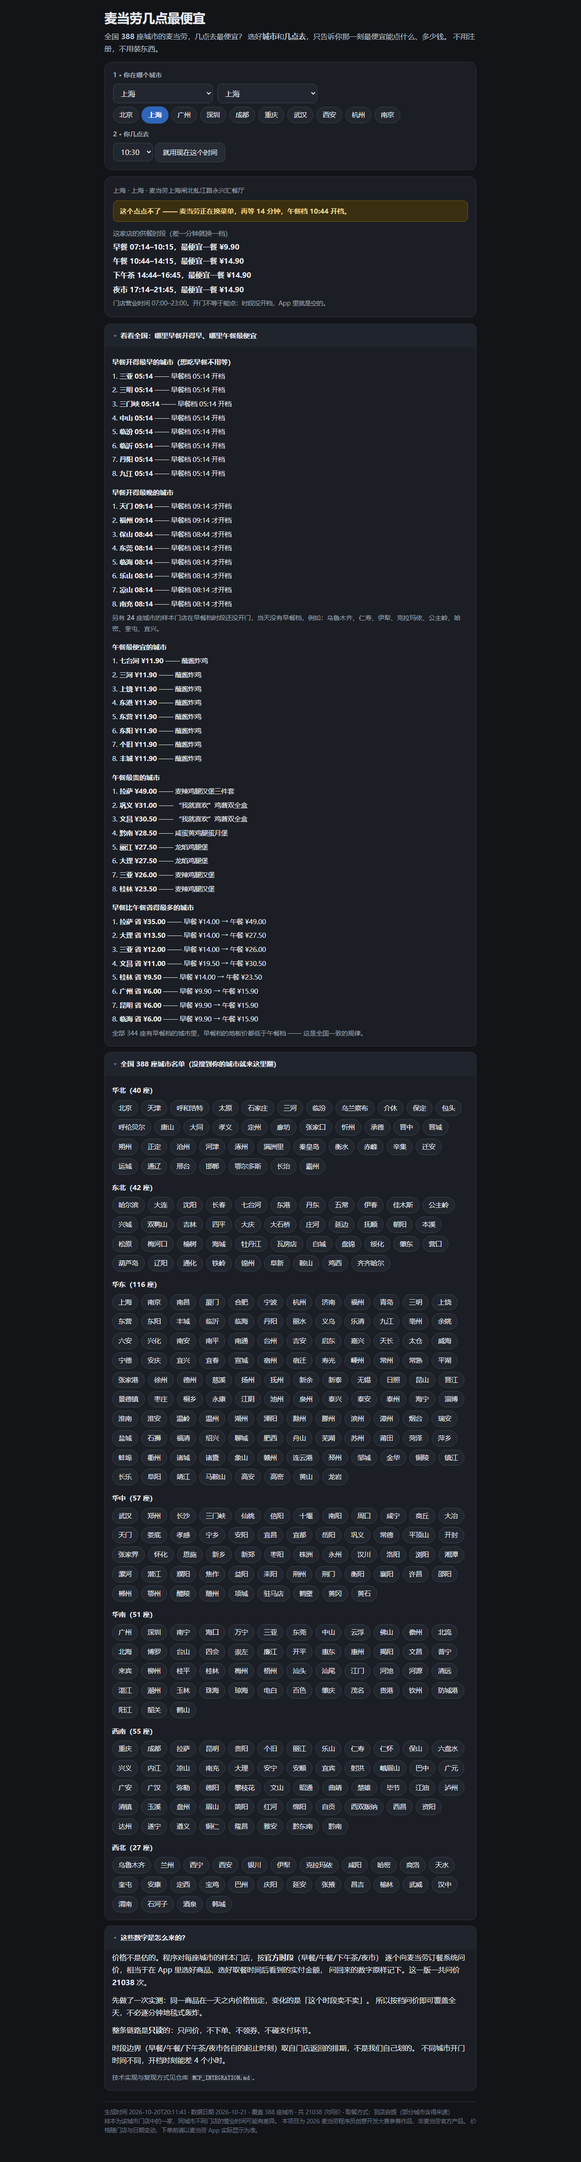
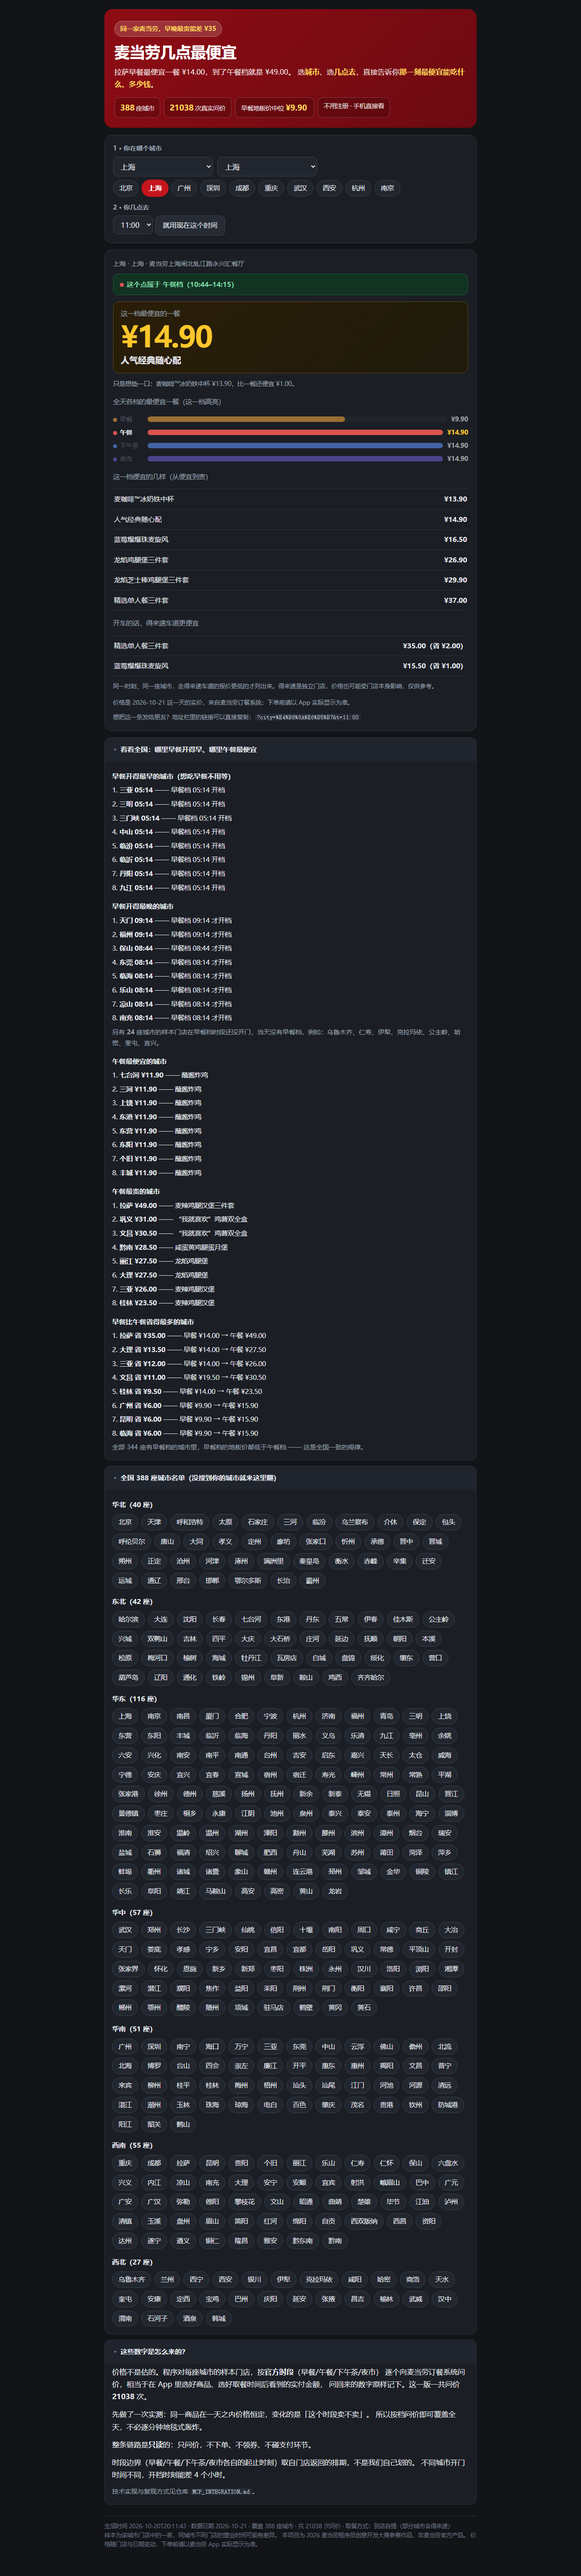
design: 品牌红金视觉 + 黄金3秒钩子文案
- 头部新增红色渐变 hero: 钩子「同一家麦当劳, 早晚最贵能差 ¥35」+ 真实案例(拉萨 ¥14→¥49) + 四枚数据勋章
- 主题色统一为品牌红 #C4161C, 价格 hero 改金色渐变 + 红色大字
- 四档配色: 早餐金/午餐红/下午茶蓝/夜市紫, 用于圆点标识与对比横条, 非当前档降透明度
- 横条标签宽度修正(避免「下午茶」换行); 移动端价格 64px
- README 开头同步换成同一钩子文案; 实拍图更新

diff --git a/dist/report.html b/dist/report.html
@@ -11,9 +11,25 @@ body{margin:0;background:#f6f7f9;color:#1f2329;
  font-size:16px;line-height:1.7;padding:20px 14px 40px;
  word-break:break-word;overflow-wrap:break-word}
 .wrap{max-width:820px;margin:0 auto}
+
+/* —— 头部: 黄金3秒钩子 —— */
+.hero{background:linear-gradient(135deg,#E1121F 0%,#C0101A 55%,#A50F18 100%);
+ color:#fff;border-radius:18px;padding:26px 22px 22px;margin:0 0 16px;
+ box-shadow:0 2px 4px rgba(120,10,16,.18),0 14px 34px rgba(120,10,16,.22)}
+.hero .hook{display:inline-block;background:rgba(255,255,255,.16);border:1px solid rgba(255,255,255,.28);
+ color:#FFD75E;font-size:13.5px;font-weight:800;letter-spacing:.4px;padding:5px 12px;
+ border-radius:20px;margin:0 0 12px}
+.hero h1{font-size:34px;line-height:1.25;margin:0 0 10px;color:#fff;letter-spacing:-.4px}
+.hero .hsub{font-size:16px;color:rgba(255,255,255,.92);margin:0 0 16px;line-height:1.65}
+.hero .hsub b{color:#FFD75E}
+.hero-stats{display:flex;flex-wrap:wrap;gap:8px}
+.hero-stats .hs{background:rgba(0,0,0,.16);border:1px solid rgba(255,255,255,.2);
+ border-radius:10px;padding:7px 12px;font-size:13.5px;color:rgba(255,255,255,.9)}
+.hero-stats .hs b{font-size:17px;color:#FFD75E;font-variant-numeric:tabular-nums;
+ font-weight:800;margin-right:3px}
 h1{font-size:28px;line-height:1.35;margin:0 0 8px;letter-spacing:-.2px}
 p{margin:0 0 12px}
-a{color:#1D4F91}
+a{color:#A50F18}
 .lead{font-size:16px;color:#3d4450;margin:0 0 16px}
 .num{font-variant-numeric:tabular-nums;font-feature-settings:"tnum" 1}
 .sub{color:#6b7280;font-size:14px;margin:0}
@@ -33,16 +49,16 @@ select.sel{font:inherit;font-size:16px;padding:9px 12px;border:1px solid #d7dbe3
 .chip{display:inline-block;padding:6px 13px;border:1px solid #d7dbe3;border-radius:20px;
  background:#fff;color:#1f2329;font-size:14.5px;cursor:pointer;line-height:1.5;
  transition:border-color .15s,color .15s,background .15s,transform .15s}
-.chip:hover{border-color:#1D4F91;color:#1D4F91}
-.chip.on{background:#1D4F91;border-color:#1D4F91;color:#fff;font-weight:700;transform:scale(1.05)}
+.chip:hover{border-color:#C4161C;color:#C4161C}
+.chip.on{background:#C4161C;border-color:#C4161C;color:#fff;font-weight:700;transform:scale(1.05)}
 .hintline{font-size:13.5px;color:#6b7280;margin:8px 0 0}
 select{font:inherit;font-size:16px;padding:8px 12px;border:1px solid #d7dbe3;border-radius:10px;
  background:#fff;color:#1f2329;max-width:100%;transition:border-color .15s}
-select:focus{border-color:#1D4F91;outline:2px solid rgba(29,79,145,.18)}
+select:focus{border-color:#C4161C;outline:2px solid rgba(196,22,28,.16)}
 button.now{font:inherit;font-size:15px;padding:8px 16px;border:1px solid #d7dbe3;
  border-radius:10px;background:#f0f2f5;color:#1f2329;cursor:pointer;
  transition:border-color .15s,color .15s,background .15s}
-button.now:hover{border-color:#1D4F91;color:#1D4F91;background:#eef3fa}
+button.now:hover{border-color:#C4161C;color:#C4161C;background:#fdeeee}
 
 /* —— 答案区 —— */
 .state{font-size:15px;font-weight:700;padding:10px 14px;border-radius:10px;margin:0 0 14px}
@@ -50,11 +66,14 @@ button.now:hover{border-color:#1D4F91;color:#1D4F91;background:#eef3fa}
 .state.gap{background:#fff4ce;color:#8a6100;border:1px solid #f0d999}
 .state.closed{background:#f1f2f5;color:#5b6472;border:1px solid #dfe2e8}
 .big{font-size:14.5px;color:#6b7280;margin:0 0 2px}
-.anshero{background:linear-gradient(135deg,#edf7f0,#f8fcf7);border:1px solid #c9e8d4;
- border-radius:14px;padding:14px 16px 12px;margin:2px 0 12px}
+.anshero{background:linear-gradient(135deg,#FFF6DF 0%,#FFFDF6 60%);border:1px solid #F2D77A;
+ border-radius:14px;padding:14px 16px 12px;margin:2px 0 12px;
+ box-shadow:0 1px 2px rgba(180,130,20,.08),0 6px 18px rgba(180,130,20,.10)}
 .anshero .ansname{margin-bottom:0}
-.ansprice{font-size:60px;font-weight:800;letter-spacing:-2px;line-height:1.1;margin:2px 0 4px;
- color:#14622c;font-variant-numeric:tabular-nums}
+.ansprice{font-size:64px;font-weight:800;letter-spacing:-2.5px;line-height:1.05;margin:2px 0 4px;
+ color:#C4161C;font-variant-numeric:tabular-nums}
+.pdot{display:inline-block;width:9px;height:9px;border-radius:50%;margin-right:6px;
+ vertical-align:middle}
 .ansname{font-size:19px;font-weight:700;margin:0 0 4px}
 .anshint{font-size:13.5px;color:#6b7280;margin:6px 0 0}
 .ansline{font-size:15px;margin:10px 0 0;padding:10px 12px;background:#f6f9ff;
@@ -63,13 +82,14 @@ button.now:hover{border-color:#1D4F91;color:#1D4F91;background:#eef3fa}
 /* —— 各档价格对比横条 —— */
 .cmp{margin:14px 0 0}
 .cmp .row{display:flex;align-items:center;gap:10px;margin:6px 0;font-size:13.5px}
-.cmp .nm{width:46px;flex:none;color:#6b7280}
-.cmp .track{display:block;flex:1;min-width:0;background:#eef0f4;border-radius:6px;height:12px;overflow:hidden}
-.cmp .bar{display:block;height:12px;border-radius:6px;background:#c9d2df;min-width:4px}
+.cmp .nm{width:66px;flex:none;color:#6b7280;white-space:nowrap}
+.cmp .track{display:block;flex:1;min-width:0;background:#f0f2f5;border-radius:6px;height:12px;overflow:hidden}
+.cmp .bar{display:block;height:12px;border-radius:6px;background:#c9d2df;min-width:4px;
+ transition:width .25s ease-out}
 .cmp .pv{font-variant-numeric:tabular-nums;font-weight:700;white-space:nowrap}
-.cmp .row.cur .nm{color:#14622c;font-weight:700}
-.cmp .row.cur .bar{background:linear-gradient(90deg,#3f9d63,#57b87e)}
-.cmp .row.cur .pv{color:#14622c}
+.cmp .row.cur .nm{color:#1f2329;font-weight:800}
+.cmp .row.cur .pv{color:#C4161C}
+.cmp .row:not(.cur){opacity:.62}
 
 /* —— 答案卡切换动画 —— */
 @keyframes fadeUp{from{opacity:0;transform:translateY(8px)}to{opacity:1;transform:none}}
@@ -106,22 +126,25 @@ footer{max-width:820px;margin:24px auto 0;color:#8b93a3;font-size:12.5px;
 @media (prefers-color-scheme:dark){
   body{background:#121418;color:#e7eaf0}
   .lead{color:#b9c0cc}
-  a{color:#8db4ea}
+  a{color:#E37B7B}
   .sub,.big,.anshint,.more,.hintline,.qlab{color:#9aa3b2}
   .card,.q,details{background:#1b1e24;border-color:#2c313a;box-shadow:none}
   details summary{background:#20242c}
   select.sel,select{background:#22262e;border-color:#3a414c;color:#e7eaf0}
-  select:focus{border-color:#8db4ea;outline-color:rgba(141,180,234,.2)}
+  select:focus{border-color:#E37B7B;outline-color:rgba(227,123,123,.22)}
   button.now{background:#262b34;border-color:#3a414c;color:#e7eaf0}
-  button.now:hover{border-color:#8db4ea;color:#8db4ea;background:#262f3d}
+  button.now:hover{border-color:#E37B7B;color:#E37B7B;background:#262f3d}
   .chip{background:#22262e;border-color:#3a414c;color:#e7eaf0}
-  .chip:hover{border-color:#8db4ea;color:#8db4ea}
-  .chip.on{background:#2f66b8;border-color:#2f66b8;color:#fff}
+  .chip:hover{border-color:#E37B7B;color:#E37B7B}
+  .chip.on{background:#C4161C;border-color:#C4161C;color:#fff}
   .state.ok{background:#123322;color:#7fd6a4;border-color:#1f5a3a}
   .state.gap{background:#3a2f10;color:#f0d48a;border-color:#6b5518}
   .state.closed{background:#22262e;color:#9aa3b2;border-color:#3a414c}
-  .anshero{background:linear-gradient(135deg,#14291c,#17211a);border-color:#235c3c}
-  .ansprice{color:#7fd6a4}
+  .anshero{background:linear-gradient(135deg,#2A1E08,#1F1A0C);border-color:#5e4a15;box-shadow:none}
+  .ansprice{color:#FFC72C}
+  .cmp .row.cur .pv{color:#FFC72C}
+  .cmp .row.cur .nm{color:#e7eaf0}
+  .hero{background:linear-gradient(135deg,#8E0C14,#6C0A11);box-shadow:none}
   .ansline{background:#1a2333;border-color:#2c3d5c}
   ul.can{border-top-color:#2c313a}
   ul.can li{border-bottom-color:#2c313a}
@@ -131,8 +154,6 @@ footer{max-width:820px;margin:24px auto 0;color:#8b93a3;font-size:12.5px;
   footer{color:#6d7684;border-top-color:#2c313a}
   .cmp .track{background:#262b34}
   .cmp .bar{background:#4a5361}
-  .cmp .nm{color:#9aa3b2}
-  .cmp .row.cur .nm,.cmp .row.cur .pv{color:#7fd6a4}
 }
 @media print{
   body{background:#fff;padding:0;font-size:12pt}
@@ -146,10 +167,18 @@ footer{max-width:820px;margin:24px auto 0;color:#8b93a3;font-size:12.5px;
 }
 </style></head><body>
 <div class="wrap">
-<h1>麦当劳几点最便宜</h1>
-<p class="lead">全国 <b>388</b> 座城市的麦当劳，几点去最便宜？
-选好<b>城市</b>和<b>几点去</b>，只告诉你那一刻最便宜能点什么、多少钱。
-不用注册，不用装东西。</p>
+<header class="hero">
+  <p class="hook">同一家麦当劳，早晚最贵能差 ¥35</p>
+  <h1>麦当劳几点最便宜</h1>
+  <p class="hsub">拉萨早餐最便宜一餐 ¥14.00，到了午餐档就是 ¥49.00。
+  选<b>城市</b>、选<b>几点去</b>，直接告诉你<b>那一刻最便宜能吃什么、多少钱</b>。</p>
+  <div class="hero-stats">
+    <span class="hs"><b>388</b>座城市</span>
+    <span class="hs"><b>21038</b>次真实问价</span>
+    <span class="hs">早餐地板价中位 <b>¥9.90</b></span>
+    <span class="hs">不用注册 · 手机直接看</span>
+  </div>
+</header>
 
 <div class="q">
   <div class="qrow">
@@ -359,7 +388,7 @@ footer{max-width:820px;margin:24px auto 0;color:#8b93a3;font-size:12.5px;
       out.push('<p class="big">这家店的供餐时段（差一分钟就换一档）</p>');
       for (var i = 0; i < city.periods.length; i++) {
         var q = city.periods[i];
-        out.push('<p class="ansname" style="font-size:16px">' + esc(q.name) + " "
+        out.push('<p class="ansname" style="font-size:16px">' + pdot(q.name) + esc(q.name) + " "
           + q.start + "–" + q.end + (q.meal ? "，最便宜一餐 " + yuan(q.meal.p) : "") + "</p>");
       }
       out.push('<p class="anshint">门店营业时间 ' + esc(city.biz[0]) + "–" + esc(city.biz[1])
@@ -370,8 +399,8 @@ footer{max-width:820px;margin:24px auto 0;color:#8b93a3;font-size:12.5px;
       return;
     }
 
-    out.push('<p class="state ok">这个点属于 <b>' + esc(p.name) + "档</b>（"
-      + p.start + "–" + p.end + "）</p>");
+    out.push('<p class="state ok">' + pdot(p.name) + "这个点属于 <b>" + esc(p.name)
+      + "档</b>（" + p.start + "–" + p.end + "）</p>");
 
     var meal = p.meal || p.any;
     if (meal) {
@@ -411,8 +440,9 @@ footer{max-width:820px;margin:24px auto 0;color:#8b93a3;font-size:12.5px;
       for (var b2 = 0; b2 < rows.length; b2++) {
         var rp = rows[b2], w = Math.max(4, Math.round(rp.meal.p / maxp * 100));
         out.push('<div class="row' + (rp.name === p.name ? " cur" : "") + '">'
-          + '<span class="nm">' + esc(rp.name) + "</span>"
-          + '<span class="track"><span class="bar" style="width:' + w + '%"></span></span>'
+          + '<span class="nm">' + pdot(rp.name) + esc(rp.name) + "</span>"
+          + '<span class="track"><span class="bar" style="width:' + w + '%;background:'
+          + pcol(rp.name) + '"></span></span>'
           + '<span class="pv">' + yuan(rp.meal.p) + "</span></div>");
       }
       out.push("</div>");
@@ -449,6 +479,10 @@ footer{max-width:820px;margin:24px auto 0;color:#8b93a3;font-size:12.5px;
     document.getElementById("ans").innerHTML = out.join("");
     syncUrl();
   }
+
+  var PC = {"早餐": "#E8A33D", "午餐": "#D9534F", "下午茶": "#5B8DEF", "夜市": "#6A5ACD"};
+  function pcol(nm) { return PC[nm] || "#8b93a3"; }
+  function pdot(nm) { return '<span class="pdot" style="background:' + pcol(nm) + '"></span>'; }
 
   /* ---- 把当前城市与时刻写进地址栏, 方便复制分享 ---- */
   function syncUrl() {

diff --git a/src/render_report.py b/src/render_report.py
@@ -41,9 +41,25 @@ body{margin:0;background:#f6f7f9;color:#1f2329;
  font-size:16px;line-height:1.7;padding:20px 14px 40px;
  word-break:break-word;overflow-wrap:break-word}
 .wrap{max-width:820px;margin:0 auto}
+
+/* —— 头部: 黄金3秒钩子 —— */
+.hero{background:linear-gradient(135deg,#E1121F 0%,#C0101A 55%,#A50F18 100%);
+ color:#fff;border-radius:18px;padding:26px 22px 22px;margin:0 0 16px;
+ box-shadow:0 2px 4px rgba(120,10,16,.18),0 14px 34px rgba(120,10,16,.22)}
+.hero .hook{display:inline-block;background:rgba(255,255,255,.16);border:1px solid rgba(255,255,255,.28);
+ color:#FFD75E;font-size:13.5px;font-weight:800;letter-spacing:.4px;padding:5px 12px;
+ border-radius:20px;margin:0 0 12px}
+.hero h1{font-size:34px;line-height:1.25;margin:0 0 10px;color:#fff;letter-spacing:-.4px}
+.hero .hsub{font-size:16px;color:rgba(255,255,255,.92);margin:0 0 16px;line-height:1.65}
+.hero .hsub b{color:#FFD75E}
+.hero-stats{display:flex;flex-wrap:wrap;gap:8px}
+.hero-stats .hs{background:rgba(0,0,0,.16);border:1px solid rgba(255,255,255,.2);
+ border-radius:10px;padding:7px 12px;font-size:13.5px;color:rgba(255,255,255,.9)}
+.hero-stats .hs b{font-size:17px;color:#FFD75E;font-variant-numeric:tabular-nums;
+ font-weight:800;margin-right:3px}
 h1{font-size:28px;line-height:1.35;margin:0 0 8px;letter-spacing:-.2px}
 p{margin:0 0 12px}
-a{color:#1D4F91}
+a{color:#A50F18}
 .lead{font-size:16px;color:#3d4450;margin:0 0 16px}
 .num{font-variant-numeric:tabular-nums;font-feature-settings:"tnum" 1}
 .sub{color:#6b7280;font-size:14px;margin:0}
@@ -63,16 +79,16 @@ select.sel{font:inherit;font-size:16px;padding:9px 12px;border:1px solid #d7dbe3
 .chip{display:inline-block;padding:6px 13px;border:1px solid #d7dbe3;border-radius:20px;
  background:#fff;color:#1f2329;font-size:14.5px;cursor:pointer;line-height:1.5;
  transition:border-color .15s,color .15s,background .15s,transform .15s}
-.chip:hover{border-color:#1D4F91;color:#1D4F91}
-.chip.on{background:#1D4F91;border-color:#1D4F91;color:#fff;font-weight:700;transform:scale(1.05)}
+.chip:hover{border-color:#C4161C;color:#C4161C}
+.chip.on{background:#C4161C;border-color:#C4161C;color:#fff;font-weight:700;transform:scale(1.05)}
 .hintline{font-size:13.5px;color:#6b7280;margin:8px 0 0}
 select{font:inherit;font-size:16px;padding:8px 12px;border:1px solid #d7dbe3;border-radius:10px;
  background:#fff;color:#1f2329;max-width:100%;transition:border-color .15s}
-select:focus{border-color:#1D4F91;outline:2px solid rgba(29,79,145,.18)}
+select:focus{border-color:#C4161C;outline:2px solid rgba(196,22,28,.16)}
 button.now{font:inherit;font-size:15px;padding:8px 16px;border:1px solid #d7dbe3;
  border-radius:10px;background:#f0f2f5;color:#1f2329;cursor:pointer;
  transition:border-color .15s,color .15s,background .15s}
-button.now:hover{border-color:#1D4F91;color:#1D4F91;background:#eef3fa}
+button.now:hover{border-color:#C4161C;color:#C4161C;background:#fdeeee}
 
 /* —— 答案区 —— */
 .state{font-size:15px;font-weight:700;padding:10px 14px;border-radius:10px;margin:0 0 14px}
@@ -80,11 +96,14 @@ button.now:hover{border-color:#1D4F91;color:#1D4F91;background:#eef3fa}
 .state.gap{background:#fff4ce;color:#8a6100;border:1px solid #f0d999}
 .state.closed{background:#f1f2f5;color:#5b6472;border:1px solid #dfe2e8}
 .big{font-size:14.5px;color:#6b7280;margin:0 0 2px}
-.anshero{background:linear-gradient(135deg,#edf7f0,#f8fcf7);border:1px solid #c9e8d4;
- border-radius:14px;padding:14px 16px 12px;margin:2px 0 12px}
+.anshero{background:linear-gradient(135deg,#FFF6DF 0%,#FFFDF6 60%);border:1px solid #F2D77A;
+ border-radius:14px;padding:14px 16px 12px;margin:2px 0 12px;
+ box-shadow:0 1px 2px rgba(180,130,20,.08),0 6px 18px rgba(180,130,20,.10)}
 .anshero .ansname{margin-bottom:0}
-.ansprice{font-size:60px;font-weight:800;letter-spacing:-2px;line-height:1.1;margin:2px 0 4px;
- color:#14622c;font-variant-numeric:tabular-nums}
+.ansprice{font-size:64px;font-weight:800;letter-spacing:-2.5px;line-height:1.05;margin:2px 0 4px;
+ color:#C4161C;font-variant-numeric:tabular-nums}
+.pdot{display:inline-block;width:9px;height:9px;border-radius:50%;margin-right:6px;
+ vertical-align:middle}
 .ansname{font-size:19px;font-weight:700;margin:0 0 4px}
 .anshint{font-size:13.5px;color:#6b7280;margin:6px 0 0}
 .ansline{font-size:15px;margin:10px 0 0;padding:10px 12px;background:#f6f9ff;
@@ -93,13 +112,14 @@ button.now:hover{border-color:#1D4F91;color:#1D4F91;background:#eef3fa}
 /* —— 各档价格对比横条 —— */
 .cmp{margin:14px 0 0}
 .cmp .row{display:flex;align-items:center;gap:10px;margin:6px 0;font-size:13.5px}
-.cmp .nm{width:46px;flex:none;color:#6b7280}
-.cmp .track{display:block;flex:1;min-width:0;background:#eef0f4;border-radius:6px;height:12px;overflow:hidden}
-.cmp .bar{display:block;height:12px;border-radius:6px;background:#c9d2df;min-width:4px}
+.cmp .nm{width:66px;flex:none;color:#6b7280;white-space:nowrap}
+.cmp .track{display:block;flex:1;min-width:0;background:#f0f2f5;border-radius:6px;height:12px;overflow:hidden}
+.cmp .bar{display:block;height:12px;border-radius:6px;background:#c9d2df;min-width:4px;
+ transition:width .25s ease-out}
 .cmp .pv{font-variant-numeric:tabular-nums;font-weight:700;white-space:nowrap}
-.cmp .row.cur .nm{color:#14622c;font-weight:700}
-.cmp .row.cur .bar{background:linear-gradient(90deg,#3f9d63,#57b87e)}
-.cmp .row.cur .pv{color:#14622c}
+.cmp .row.cur .nm{color:#1f2329;font-weight:800}
+.cmp .row.cur .pv{color:#C4161C}
+.cmp .row:not(.cur){opacity:.62}
 
 /* —— 答案卡切换动画 —— */
 @keyframes fadeUp{from{opacity:0;transform:translateY(8px)}to{opacity:1;transform:none}}
@@ -136,22 +156,25 @@ footer{max-width:820px;margin:24px auto 0;color:#8b93a3;font-size:12.5px;
 @media (prefers-color-scheme:dark){
   body{background:#121418;color:#e7eaf0}
   .lead{color:#b9c0cc}
-  a{color:#8db4ea}
+  a{color:#E37B7B}
   .sub,.big,.anshint,.more,.hintline,.qlab{color:#9aa3b2}
   .card,.q,details{background:#1b1e24;border-color:#2c313a;box-shadow:none}
   details summary{background:#20242c}
   select.sel,select{background:#22262e;border-color:#3a414c;color:#e7eaf0}
-  select:focus{border-color:#8db4ea;outline-color:rgba(141,180,234,.2)}
+  select:focus{border-color:#E37B7B;outline-color:rgba(227,123,123,.22)}
   button.now{background:#262b34;border-color:#3a414c;color:#e7eaf0}
-  button.now:hover{border-color:#8db4ea;color:#8db4ea;background:#262f3d}
+  button.now:hover{border-color:#E37B7B;color:#E37B7B;background:#262f3d}
   .chip{background:#22262e;border-color:#3a414c;color:#e7eaf0}
-  .chip:hover{border-color:#8db4ea;color:#8db4ea}
-  .chip.on{background:#2f66b8;border-color:#2f66b8;color:#fff}
+  .chip:hover{border-color:#E37B7B;color:#E37B7B}
+  .chip.on{background:#C4161C;border-color:#C4161C;color:#fff}
   .state.ok{background:#123322;color:#7fd6a4;border-color:#1f5a3a}
   .state.gap{background:#3a2f10;color:#f0d48a;border-color:#6b5518}
   .state.closed{background:#22262e;color:#9aa3b2;border-color:#3a414c}
-  .anshero{background:linear-gradient(135deg,#14291c,#17211a);border-color:#235c3c}
-  .ansprice{color:#7fd6a4}
+  .anshero{background:linear-gradient(135deg,#2A1E08,#1F1A0C);border-color:#5e4a15;box-shadow:none}
+  .ansprice{color:#FFC72C}
+  .cmp .row.cur .pv{color:#FFC72C}
+  .cmp .row.cur .nm{color:#e7eaf0}
+  .hero{background:linear-gradient(135deg,#8E0C14,#6C0A11);box-shadow:none}
   .ansline{background:#1a2333;border-color:#2c3d5c}
   ul.can{border-top-color:#2c313a}
   ul.can li{border-bottom-color:#2c313a}
@@ -161,8 +184,6 @@ footer{max-width:820px;margin:24px auto 0;color:#8b93a3;font-size:12.5px;
   footer{color:#6d7684;border-top-color:#2c313a}
   .cmp .track{background:#262b34}
   .cmp .bar{background:#4a5361}
-  .cmp .nm{color:#9aa3b2}
-  .cmp .row.cur .nm,.cmp .row.cur .pv{color:#7fd6a4}
 }
 @media print{
   body{background:#fff;padding:0;font-size:12pt}
@@ -339,7 +360,7 @@ JS = """
       out.push('<p class="big">这家店的供餐时段（差一分钟就换一档）</p>');
       for (var i = 0; i < city.periods.length; i++) {
         var q = city.periods[i];
-        out.push('<p class="ansname" style="font-size:16px">' + esc(q.name) + " "
+        out.push('<p class="ansname" style="font-size:16px">' + pdot(q.name) + esc(q.name) + " "
           + q.start + "–" + q.end + (q.meal ? "，最便宜一餐 " + yuan(q.meal.p) : "") + "</p>");
       }
       out.push('<p class="anshint">门店营业时间 ' + esc(city.biz[0]) + "–" + esc(city.biz[1])
@@ -350,8 +371,8 @@ JS = """
       return;
     }
 
-    out.push('<p class="state ok">这个点属于 <b>' + esc(p.name) + "档</b>（"
-      + p.start + "–" + p.end + "）</p>");
+    out.push('<p class="state ok">' + pdot(p.name) + "这个点属于 <b>" + esc(p.name)
+      + "档</b>（" + p.start + "–" + p.end + "）</p>");
 
     var meal = p.meal || p.any;
     if (meal) {
@@ -391,8 +412,9 @@ JS = """
       for (var b2 = 0; b2 < rows.length; b2++) {
         var rp = rows[b2], w = Math.max(4, Math.round(rp.meal.p / maxp * 100));
         out.push('<div class="row' + (rp.name === p.name ? " cur" : "") + '">'
-          + '<span class="nm">' + esc(rp.name) + "</span>"
-          + '<span class="track"><span class="bar" style="width:' + w + '%"></span></span>'
+          + '<span class="nm">' + pdot(rp.name) + esc(rp.name) + "</span>"
+          + '<span class="track"><span class="bar" style="width:' + w + '%;background:'
+          + pcol(rp.name) + '"></span></span>'
           + '<span class="pv">' + yuan(rp.meal.p) + "</span></div>");
       }
       out.push("</div>");
@@ -429,6 +451,10 @@ JS = """
     document.getElementById("ans").innerHTML = out.join("");
     syncUrl();
   }
+
+  var PC = {"早餐": "#E8A33D", "午餐": "#D9534F", "下午茶": "#5B8DEF", "夜市": "#6A5ACD"};
+  function pcol(nm) { return PC[nm] || "#8b93a3"; }
+  function pdot(nm) { return '<span class="pdot" style="background:' + pcol(nm) + '"></span>'; }
 
   /* ---- 把当前城市与时刻写进地址栏, 方便复制分享 ---- */
   function syncUrl() {
@@ -655,10 +681,18 @@ def main() -> int:
 <title>麦当劳几点最便宜 · 全国 {n_cities} 城，选城市和时刻直接给答案</title>
 <style>{CSS}</style></head><body>
 <div class="wrap">
-<h1>麦当劳几点最便宜</h1>
-<p class="lead">全国 <b>{n_cities}</b> 座城市的麦当劳，几点去最便宜？
-选好<b>城市</b>和<b>几点去</b>，只告诉你那一刻最便宜能点什么、多少钱。
-不用注册，不用装东西。</p>
+<header class="hero">
+  <p class="hook">同一家麦当劳，早晚最贵能差 ¥35</p>
+  <h1>麦当劳几点最便宜</h1>
+  <p class="hsub">拉萨早餐最便宜一餐 ¥14.00，到了午餐档就是 ¥49.00。
+  选<b>城市</b>、选<b>几点去</b>，直接告诉你<b>那一刻最便宜能吃什么、多少钱</b>。</p>
+  <div class="hero-stats">
+    <span class="hs"><b>{n_cities}</b>座城市</span>
+    <span class="hs"><b>{n_calls}</b>次真实问价</span>
+    <span class="hs">早餐地板价中位 <b>¥9.90</b></span>
+    <span class="hs">不用注册 · 手机直接看</span>
+  </div>
+</header>
 
 <div class="q">
   <div class="qrow">
